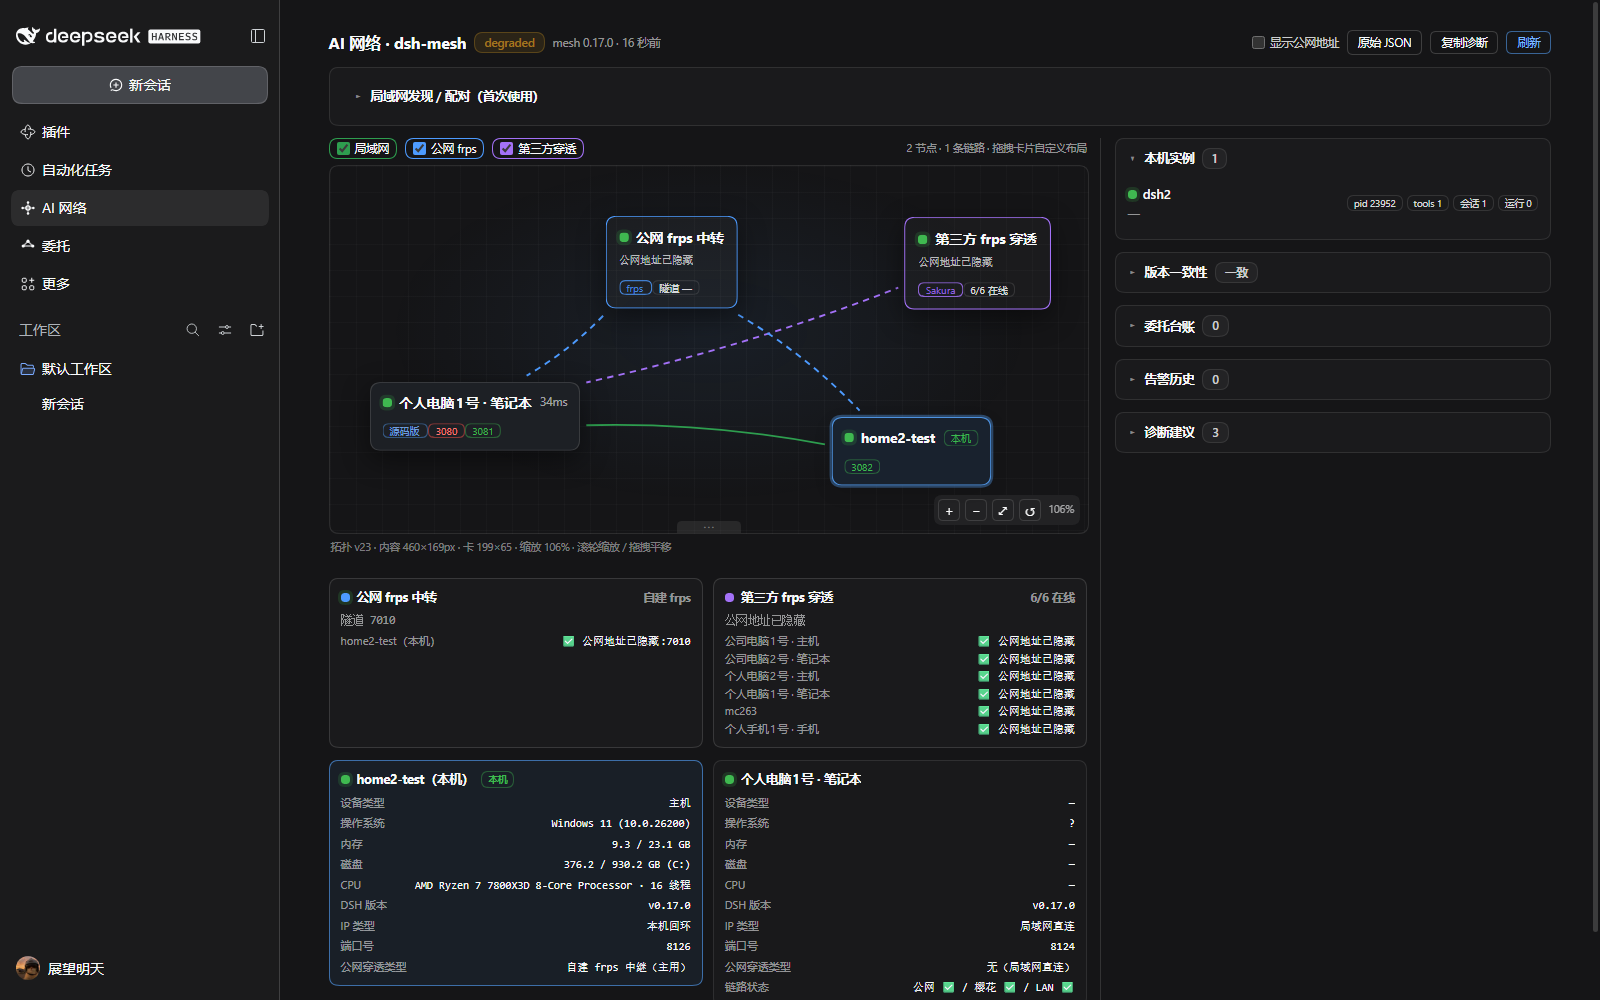
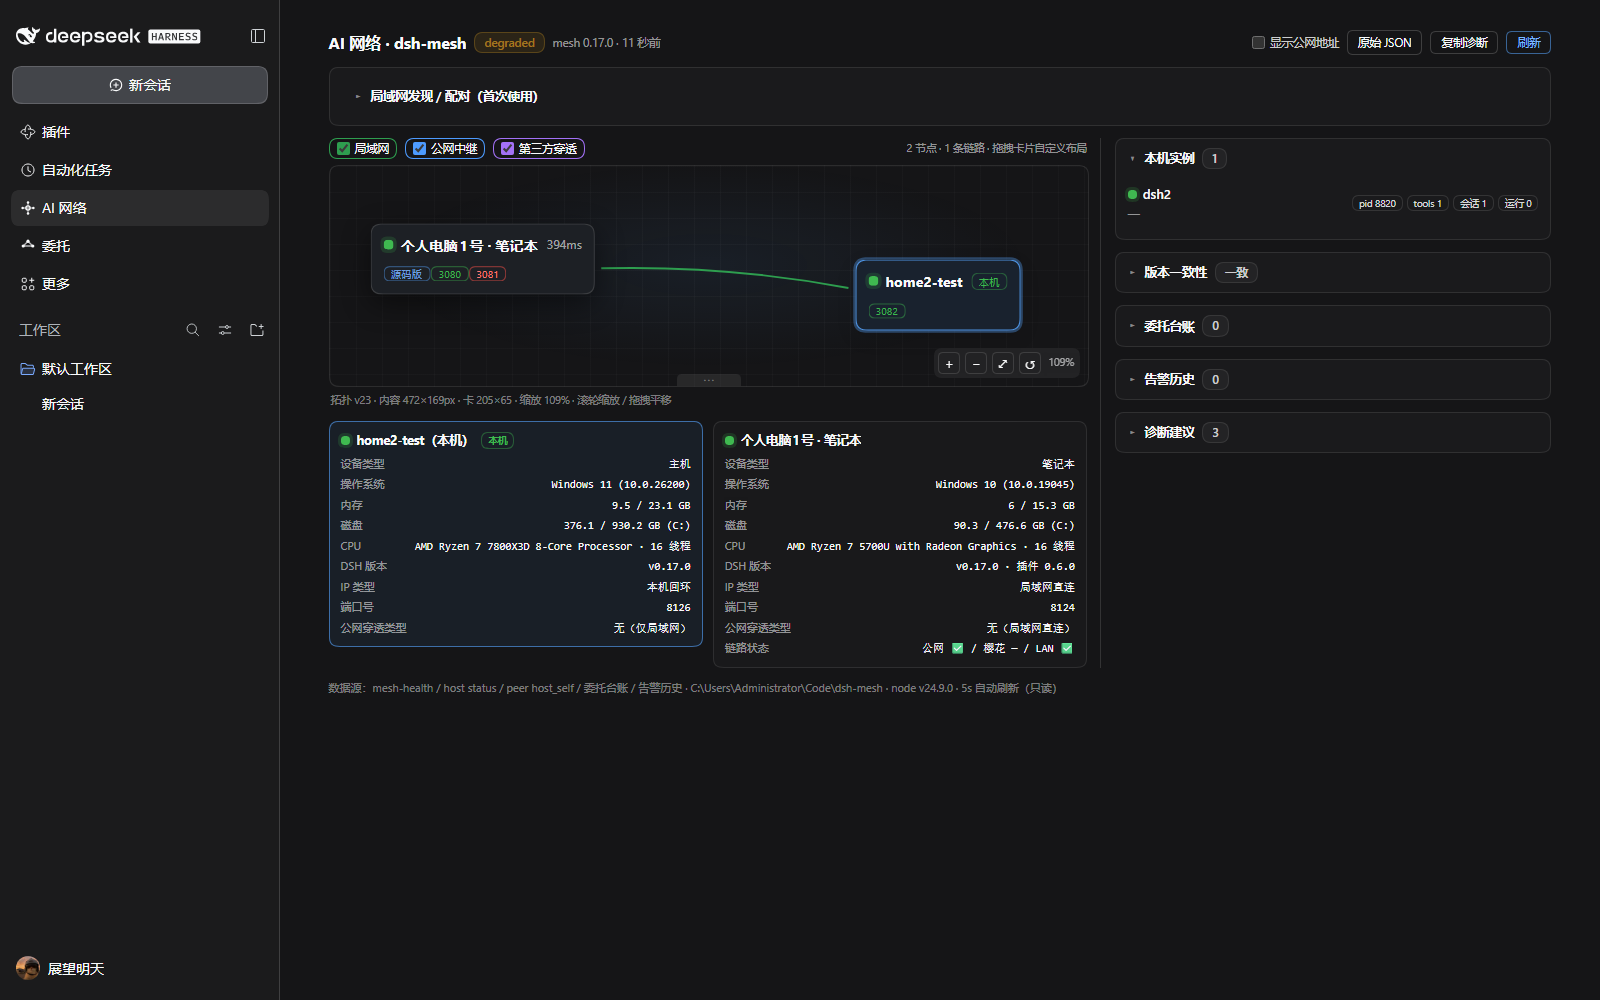
docs(ui): refresh AI network screenshot after hiding public layer; release UI 0.0.20
[why]: topology no longer shows frps/Sakura cards for LAN-only nodes; screenshot updated.

diff --git a/packages/dsh-mesh-ui/lib/client.js b/packages/dsh-mesh-ui/lib/client.js
@@ -702,7 +702,7 @@ body.light .dm-edge-label { stroke: rgba(255,255,255,.92); }
       return h('div', { className: 'dm-topo-wrap' },
         h('div', { className: 'dm-topbar' },
           h('div', { className: 'dm-filters' },
-            [['lan', '局域网'], ['public', '公网 frps'], ['sakura', '第三方穿透']].map(function (it) {
+            [['lan', '局域网'], ['public', '公网中继'], ['sakura', '第三方穿透']].map(function (it) {
               var tr = TRANSPORTS[it[0]]
               return h('label', { key: it[0], className: 'dm-flt' + (showFilters[it[0]] ? ' on' : ''), style: { '--c': tr.color } },
                 h('input', { type: 'checkbox', checked: showFilters[it[0]], onChange: function () { toggleFilter(it[0]) } }),
@@ -809,7 +809,7 @@ body.light .dm-edge-label { stroke: rgba(255,255,255,.92); }
       var instances = (data.local && data.local.instances) || []
       var localUp = instances.filter(function (x) { return x.up }).length
       // 2026-11-09：樱花账号隧道（PC 端 API 采集，跨设备含手机）
-      var sakuraAccount = (data.tunnels && data.tunnels.sakuraAccount) || null
+      var sakuraAccount = sakuraAccountOf(data)
       if (!groups.length && !direct.length && !sakuraAccount) return null
       return h('div', { className: 'dm-relay' },
         h('div', { className: 'dm-relay-head' },
@@ -881,9 +881,28 @@ function isLanPeer(peer) {
   if (/^(192\.168\.|10\.|172\.(1[6-9]|2[0-9]|3[01])\.)/.test(host)) return true
   return false
 }
+// publicEntry 可能来自机器级 frpc；只有它映射的 localPort 与当前 mesh server 端口一致才属于本节点。
+function publicEntryFor(localTunnel) {
+  var lt = localTunnel || {}
+  var entry = lt.publicEntry || lt.selfHosted
+  if (!entry || !entry.host) return null
+  var nodePort = Number(lt.port)
+  if (nodePort && entry.localPort != null && Number(entry.localPort) !== nodePort) return null
+  return entry
+}
+function tunnelMatchesNode(port) {
+  var nodePort = Number(port)
+  return function (tunnel) {
+    if (!nodePort || tunnel.localPort == null) return true
+    return Number(tunnel.localPort) === nodePort
+  }
+}
 function sakuraAccountOf(data) {
   var acc = data && data.tunnels && data.tunnels.sakuraAccount
-  return acc && acc.available === true ? acc : null
+  if (!acc || acc.available !== true) return null
+  var port = Number(data && data.localTunnel && data.localTunnel.port)
+  if (!port) return acc
+  return Object.assign({}, acc, { tunnels: (acc.tunnels || []).filter(function (x) { return x.localPort == null || Number(x.localPort) === port }) })
 }
 function sakuraTunnelOf(data, devKey) {
   var acc = sakuraAccountOf(data)
@@ -915,9 +934,11 @@ function deviceLinkState(data, peer, lanMap) {
       // 2026-11-10：本机自身也有一条阿里云入口（publicEntry/selfHosted 的 7012），之前漏掉了
       var lt = data.localTunnel || {}
       var selfHost = lt.selfHosted || {}
-      var entry = lt.publicEntry || selfHost || {}
-      var localPort = entry.port || selfHost.port || null
-      var localHost = entry.host || selfHost.host || ''
+      var localPublic = publicEntryFor(lt)
+      if (!localPublic) return null
+      var entry = localPublic
+      var localPort = entry.port || null
+      var localHost = entry.host || ''
       var localKey = peerDeviceKey(data.nodeName)
       var devs = [{ devKey: localKey, name: nodeDisplay(data.nodeName) + "（本机）", up: true, port: localPort, host: localHost }].concat(peers.filter(function (p) { return !isLanPeer(p) }).map(function (p) {
         var tu = p.tunnel || {}
@@ -929,7 +950,7 @@ function deviceLinkState(data, peer, lanMap) {
           h('span', { className: 'dm-device-v' }, (d.up ? '✅ ' : '❌ ') + maskHost(d.host) + ':' + d.port)
         )
       })
-      var tunnelRows = acc ? (acc.tunnels || []).map(function (x, i) {
+      var tunnelRows = acc ? (acc.tunnels || []).filter(tunnelMatchesNode(lt.port)).map(function (x, i) {
         return h('div', { key: 'st' + i, className: 'dm-device-row' },
           h('span', { className: 'dm-device-k' }, (x.deviceKey ? nodeDisplay(peerDeviceKey(x.deviceKey)) : (x.name || '未归类'))),
           h('span', { className: 'dm-device-v' }, (x.online ? '✅ ' : '❌ ') + maskText(x.addr || ''))
@@ -940,7 +961,7 @@ function deviceLinkState(data, peer, lanMap) {
         h('div', { className: 'dm-infra-card' },
           h('div', { className: 'dm-infra-head' },
             h('span', { className: 'dm-dot ok', style: { background: TRANSPORTS.public.color } }),
-            h('span', null, '公网 frps 中转'),
+            h('span', null, '公网中转'),
             h('span', { className: 'dm-sub', style: { marginLeft: 'auto' } }, '自建 frps')
           ),
           h('div', { className: 'dm-sub dm-mono', style: { marginBottom: 4 } }, '隧道 ' + (devs.filter(function (d) { return d.port }).map(function (d) { return d.port }).sort().join(' / ') || '—')),
@@ -962,6 +983,7 @@ function deviceLinkState(data, peer, lanMap) {
     function Topology(props) {
       var data = props.data
       var layout = props.layout
+      var show = props.show || { lan: true, public: true, sakura: true }
       // 2026-11-09-v5：卡片宽度自适应 —— 每次渲染后测量真实尺寸，回传父组件重算布局；
       // 同时把每张卡的实际尺寸给连线用（不同卡片宽窄不同，连线端点贴各自边缘）。
       var cardRefs = useRef({})
@@ -1095,10 +1117,15 @@ function deviceLinkState(data, peer, lanMap) {
   var orderKeys = orderedNodeKeys(data)
   nodes.sort(function (a, b) { return orderKeys.indexOf(a.key) - orderKeys.indexOf(b.key) })
   // 基础设施节点（中转服务器）：阿里云 / 樱花
-  var sakuraAcc = sakuraAccountOf(data)
+  var localPub = publicEntryFor(localTunnel)
+  var hasPublic = Boolean(localPub) || peers.some(function (p) { var pt = p.tunnel || {}; return !isLanPeer(p) && Boolean(pt.host) && (pt.kind === 'frp' || pt.kind === 'wan') })
+  var publicVisible = show.public && hasPublic
+  var sakuraRaw = sakuraAccountOf(data)
+  var sakuraAcc = sakuraRaw ? Object.assign({}, sakuraRaw, { tunnels: (sakuraRaw.tunnels || []).filter(tunnelMatchesNode(localTunnel.port)) }) : null
+  var sakuraVisible = show.sakura && Boolean(sakuraAcc && (sakuraAcc.tunnels || []).length)
   var aliyunPorts = peers.map(function (p) { return isLanPeer(p) ? null : (p.tunnel || {}).port }).filter(Boolean)
   var infra = [
-    { key: 'server-aliyun', transport: 'public', name: '公网 frps 中转', host: '公网地址已隐藏', color: TRANSPORTS.public.color, detail: '隧道 ' + (aliyunPorts.length ? aliyunPorts.sort().join('/') : '—'), up: true },
+    { key: 'server-aliyun', transport: 'public', name: '公网中转', host: '公网地址已隐藏', color: TRANSPORTS.public.color, detail: '隧道 ' + (aliyunPorts.length ? aliyunPorts.sort().join('/') : '—'), up: Boolean(localPub) || hasPublic },
     { key: 'server-sakura', transport: 'sakura', name: '第三方 frps 穿透', host: '公网地址已隐藏', color: TRANSPORTS.sakura.color, detail: sakuraAcc ? (sakuraAcc.online + '/' + sakuraAcc.total + ' 在线') : '未采集', up: Boolean(sakuraAcc) },
   ]
   // 2026-11-09-v8：服务器默认位置贴住扇形最高一排设备（用户要求缩小服务器↔设备的垂直间隔）
@@ -1135,7 +1162,6 @@ function deviceLinkState(data, peer, lanMap) {
       }
 
       // 2026-11-09：三通道连线（设备→阿里云 / 设备→樱花 / 局域网直连）+ 中转服务器卡片 + 筛选
-  var show = props.show || { lan: true, public: true, sakura: true }
   // 2026-11-09：悬浮节点 → 只高亮它的连线并显示完整地址（其它线变淡）
   var hoverState = useState(null)
   var hoverKey = hoverState[0]
@@ -1192,11 +1218,10 @@ function deviceLinkState(data, peer, lanMap) {
   var aliyunSize = infraSizes['server-aliyun'] || { w: 300, h: 90 }
   var sakuraSize = infraSizes['server-sakura'] || { w: 300, h: 90 }
   var infraBoxes = []
-  if (show.public) infraBoxes.push({ x: aliyunPos[0], y: aliyunPos[1], w: aliyunSize.w, h: aliyunSize.h })
-  if (show.sakura) infraBoxes.push({ x: sakuraPos[0], y: sakuraPos[1], w: sakuraSize.w, h: sakuraSize.h })
+  if (publicVisible) infraBoxes.push({ x: aliyunPos[0], y: aliyunPos[1], w: aliyunSize.w, h: aliyunSize.h })
+  if (sakuraVisible) infraBoxes.push({ x: sakuraPos[0], y: sakuraPos[1], w: sakuraSize.w, h: sakuraSize.h })
   if (props.onInfraBounds) props.onInfraBounds(infraBoxes)
   var localKey = peerDeviceKey(data.nodeName)
-  var localPub = localTunnel.publicEntry || localTunnel.selfHosted || null
   var localSak = sakuraTunnelOf(data, localKey)
   // 2026-11-10：LAN 线必须从本机节点出发（排序后 local 可能不在 index 0，之前误连到peer-x）
   var localNodeIdx = 0
@@ -1205,13 +1230,13 @@ function deviceLinkState(data, peer, lanMap) {
     var pa = layout.positions[i]
     if (n.local) {
       // 主机自己的两条上级链路：自建 frps（阿里云） + 本机樱花隧道
-      if (show.public && localPub) svgEls = svgEls.concat(curve('pub-local', pa, aliyunPos, true, TRANSPORTS.public, maskHost(localPub.host) + ':' + localPub.port, sizeOf('local'), aliyunSize, edgeRelated('local', 'server-aliyun')))
-      if (show.sakura && localSak) svgEls = svgEls.concat(curve('sak-local', pa, sakuraPos, localSak.online === true, TRANSPORTS.sakura, maskText(localSak.addr || ''), sizeOf('local'), sakuraSize, edgeRelated('local', 'server-sakura')))
+      if (publicVisible && localPub) svgEls = svgEls.concat(curve('pub-local', pa, aliyunPos, true, TRANSPORTS.public, maskHost(localPub.host) + ':' + localPub.port, sizeOf('local'), aliyunSize, edgeRelated('local', 'server-aliyun')))
+      if (sakuraVisible && localSak) svgEls = svgEls.concat(curve('sak-local', pa, sakuraPos, localSak.online === true, TRANSPORTS.sakura, maskText(localSak.addr || ''), sizeOf('local'), sakuraSize, edgeRelated('local', 'server-sakura')))
       return
     }
     var sizeN = sizeOf(n.key)
-    if (show.public) svgEls = svgEls.concat(curve('pub' + i, pa, aliyunPos, n.publicUp, TRANSPORTS.public, '公网 frps' + ((n.tunnel && n.tunnel.port) ? ':' + n.tunnel.port : ''), sizeN, aliyunSize, edgeRelated(n.key, 'server-aliyun')))
-    if (show.sakura && n.sakuraTunnel) svgEls = svgEls.concat(curve('sak' + i, pa, sakuraPos, n.sakuraUp === true, TRANSPORTS.sakura, maskText(n.sakuraTunnel.addr || ''), sizeN, sakuraSize, edgeRelated(n.key, 'server-sakura')))
+    if (publicVisible && n.tunnel && n.tunnel.host && !isLanPeer(n) && (n.tunnel.kind === 'frp' || n.tunnel.kind === 'wan')) svgEls = svgEls.concat(curve('pub' + i, pa, aliyunPos, n.publicUp, TRANSPORTS.public, maskHost(n.tunnel.host) + ((n.tunnel.port) ? ':' + n.tunnel.port : ''), sizeN, aliyunSize, edgeRelated(n.key, 'server-aliyun')))
+    if (sakuraVisible && n.sakuraTunnel) svgEls = svgEls.concat(curve('sak' + i, pa, sakuraPos, n.sakuraUp === true, TRANSPORTS.sakura, maskText(n.sakuraTunnel.addr || ''), sizeN, sakuraSize, edgeRelated(n.key, 'server-sakura')))
     if (show.lan && n.lanUp) { var lt = n.lanTunnel || {}; var lanAddr = (lt.ip || lt.host || 'LAN') + (lt.port ? ':' + lt.port : ''); svgEls = svgEls.concat(curve('lan' + i, layout.positions[localNodeIdx], pa, n.lanUp, TRANSPORTS.lan, lanAddr, sizeOf('local'), sizeN, edgeRelated('local', n.key))) }
   })
   return h('div', null,
@@ -1247,7 +1272,7 @@ function deviceLinkState(data, peer, lanMap) {
         )
       )
     }),
-    (show.public ? h('div', {
+    (publicVisible ? h('div', {
       key: 'server-aliyun',
       className: 'dm-card-node server' + (infra[0].up ? '' : ' down') + (hoverKey === 'server-aliyun' ? ' hovered' : ''),
       onMouseEnter: function () { setHoverKey('server-aliyun') },
@@ -1263,7 +1288,7 @@ function deviceLinkState(data, peer, lanMap) {
       h('div', { className: 'dm-card-domain' }, infra[0].host),
       h('div', { className: 'dm-card-dsh' }, h('span', { className: 'dm-chip', style: { borderColor: TRANSPORTS.public.color, color: TRANSPORTS.public.color } }, 'frps'), h('span', { className: 'dm-chip' }, infra[0].detail))
     ) : null),
-    (show.sakura ? h('div', {
+    (sakuraVisible ? h('div', {
       key: 'server-sakura',
       className: 'dm-card-node server' + (infra[1].up ? '' : ' down') + (hoverKey === 'server-sakura' ? ' hovered' : ''),
       onMouseEnter: function () { setHoverKey('server-sakura') },
@@ -1296,10 +1321,10 @@ function deviceLinkState(data, peer, lanMap) {
       var running = instances.reduce(function (n, x) { return n + (x.running || 0) }, 0)
       var model = instances.length && instances[0].model ? (instances[0].model.provider || '') + ' / ' + (instances[0].model.model || '') : '—'
       var localTunnelText = null
-      var tunnels = localTunnel.tunnels || []
-      var entry = localTunnel.publicEntry || null
+      var tunnels = (localTunnel.tunnels || []).filter(tunnelMatchesNode(localTunnel.port))
+      var entry = publicEntryFor(localTunnel) || null
       var tunnelNames = tunnels.map(function (x) { return x.name + '→' + maskHost(x.host) + ':' + x.port }).join(' / ')
-      var mainSrc = localTunnel.mainSource || (entry && entry.source === 'self-hosted-frps' ? 'self-hosted' : (entry ? 'sakura' : 'none'))
+      var mainSrc = entry ? (localTunnel.mainSource || (entry.source === 'self-hosted-frps' ? 'self-hosted' : (entry.source === 'sakura' ? 'sakura' : 'none'))) : 'none'
       var entryText = entry && entry.host
         ? maskHost(entry.host) + ':' + entry.port + (mainSrc === 'self-hosted' ? '（自建 frps · 主用）' : (mainSrc === 'sakura' ? '（Sakura · 备用）' : ''))
         : '未配置'
